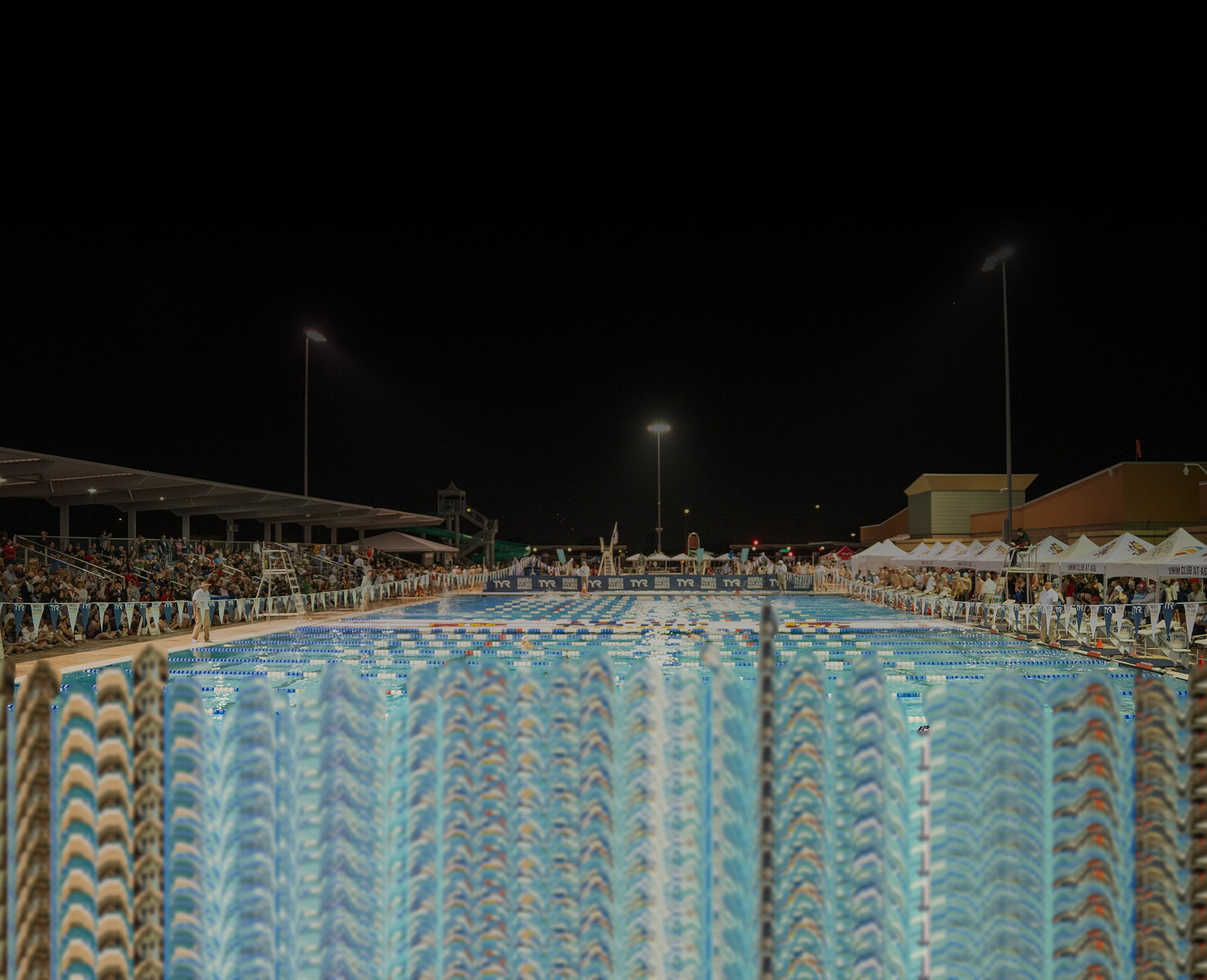
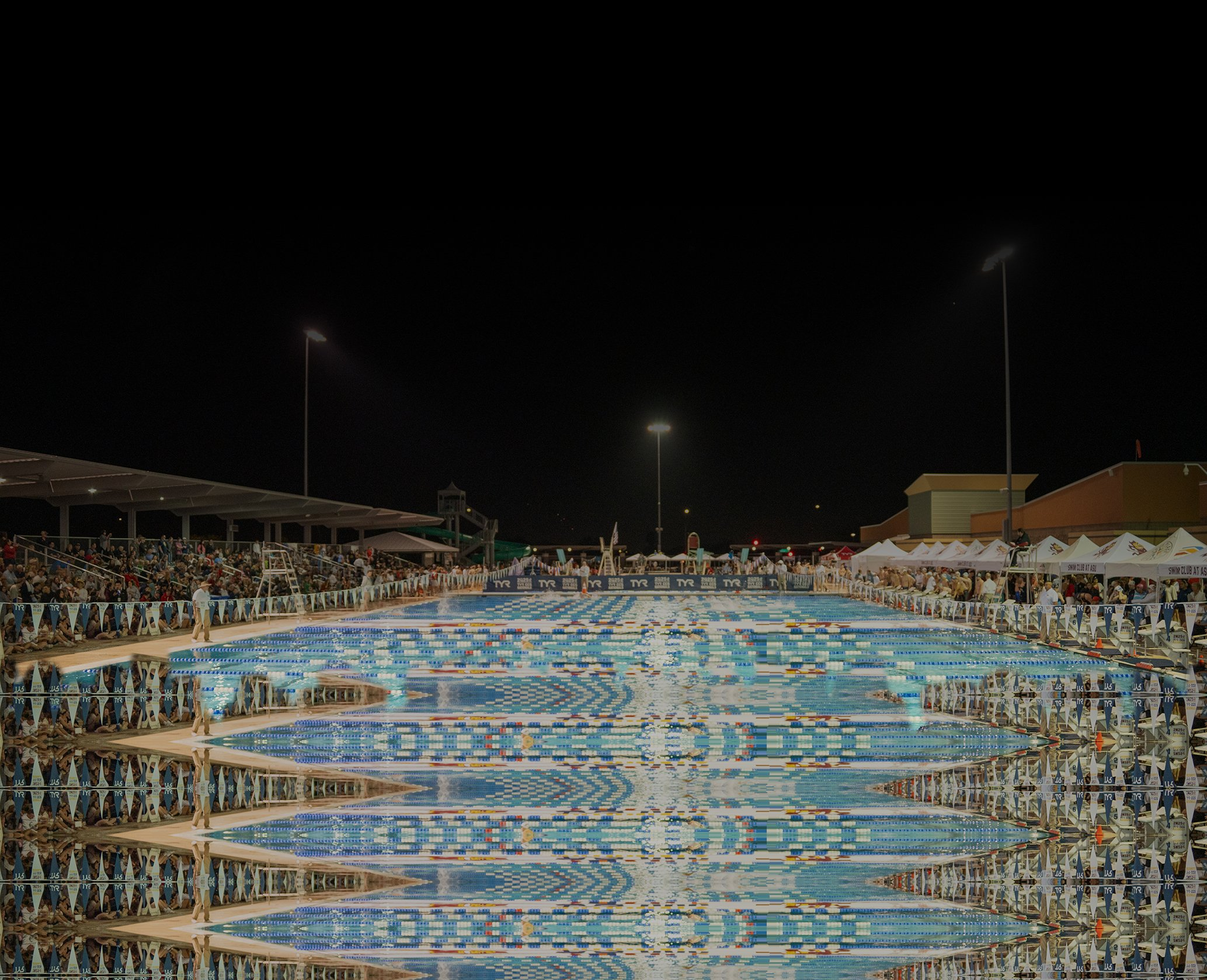
College Club: parallax pool rises, words reordered and raised
- Layers now take start and end values (data-y-from/-to,
  data-zoom-from/-to) so the pool can rise while the crowd drops.
  The pool ends 12% of the section higher, so the water shows above
  the zoomed-in crowd.
- Words reordered to Compete. / Connect. / Have Fun. and raised
  (top 18%) so the last line sits half behind the crowd.
- Regenerated the stand-in background: the crowd area is filled with
  the water band above it, mirror-tiled, instead of per-column
  streaks, so the strip exposed above the heads reads as pool.

Changed region(s): [[0.0, 0.6198, 1.0, 1.0]]

diff --git a/src/js/college-club/ccs-parallax.js b/src/js/college-club/ccs-parallax.js
@@ -3,30 +3,38 @@
 (function () {
     /*
      * Reveal: as the section scrolls into view, the crowd starts high in the frame
-     * and slides down to its resting place, uncovering the pool behind it, while
-     * the words rise from behind the crowd into the gap between them.
+     * and slides down to its resting place while zooming in, the pool rises behind
+     * it so the water shows above the heads, and the words rise from behind the
+     * crowd into the gap between them.
      *
-     * data-shift = where a layer starts, as a fraction of the section's height
-     * (negative = higher, positive = lower). It eases to 0 as the section scrolls
-     * in, and every layer is at rest (the flattened comp) once the section's
-     * bottom edge reaches the bottom of the viewport. -1 would pin the crowd to
-     * the bottom of the viewport the whole way in.
+     * Each layer eases from its "from" values to its "to" values between the
+     * section's top edge entering the bottom of the viewport and the whole section
+     * being on screen, then holds the "to" values.
+     *   data-y-from / data-y-to:       vertical offset as a fraction of the
+     *                                  section's height (negative = up). Default 0.
+     *   data-zoom-from / data-zoom-to: scale, from the layer's transform-origin
+     *                                  (ccs.css). Default 1.
+     * A crowd y-from of -1 would pin it to the bottom of the viewport on the way in.
      *
-     * data-zoom = the layer's scale once the section is fully in view (1.3 = 30%
-     * bigger). It starts at 1 and grows on the same schedule, so the layer zooms
-     * in as you scroll down. It scales from the layer's transform-origin (ccs.css).
-     *
-     * Whatever is below the crowd is always below the fold, so the pool photo can
-     * stay put. It must be the clean plate (crowd removed): the gaps between heads
-     * show it while the crowd is still above its resting place.
+     * The pool must be the clean plate (crowd removed): the gaps between heads
+     * show it while the crowd and pool are out of their comp alignment.
      */
     var stage = document.querySelector("[data-ccs-plx]");
     if (!stage) return;
     if (window.matchMedia("(prefers-reduced-motion: reduce)").matches) return;
 
-    var layers = Array.prototype.map.call(stage.querySelectorAll("[data-shift], [data-zoom]"), function (el) {
-        return { el: el, shift: parseFloat(el.dataset.shift) || 0, zoom: parseFloat(el.dataset.zoom) || 1 };
-    }).filter(function (l) { return l.shift !== 0 || l.zoom !== 1; });
+    function num(el, name, fallback) {
+        var v = parseFloat(el.dataset[name]);
+        return isNaN(v) ? fallback : v;
+    }
+
+    var layers = Array.prototype.map.call(stage.querySelectorAll(".ccs-plx__layer"), function (el) {
+        return {
+            el: el,
+            y0: num(el, "yFrom", 0), y1: num(el, "yTo", 0),
+            z0: num(el, "zoomFrom", 1), z1: num(el, "zoomTo", 1)
+        };
+    }).filter(function (l) { return l.y0 || l.y1 || l.z0 !== 1 || l.z1 !== 1; });
 
     var ticking = false, inView = false;
 
@@ -39,8 +47,8 @@
         // 0 = top edge just entering the bottom of the viewport, 1 = fully in view.
         var p = Math.min(Math.max((vh - r.top) / r.height, 0), 1);
         layers.forEach(function (l) {
-            var y = l.shift * (1 - p) * r.height;
-            var z = 1 + (l.zoom - 1) * p;
+            var y = (l.y0 + (l.y1 - l.y0) * p) * r.height;
+            var z = l.z0 + (l.z1 - l.z0) * p;
             l.el.style.transform = "translate3d(0," + y.toFixed(1) + "px,0) scale(" + z.toFixed(4) + ")";
         });
     }

diff --git a/src/css/college-club/ccs.css b/src/css/college-club/ccs.css
@@ -643,16 +643,17 @@ nav.admin .menu > li > a {
 .ccs-plx__fg {
     z-index: 3;
     pointer-events: none;
-    /* Zoom (data-zoom) grows the crowd up and out from its bottom centre. */
+    /* Zoom (data-zoom-to) grows the crowd up and out from its bottom centre. */
     transform-origin: 50% 100%;
 }
 /* The cutout is the background's crowd, 19px (of 2067 wide) up from its bottom edge. */
 .ccs-plx__fg img { bottom: 0.92%; }
 
-/* Text box measured from the comp: top at comp y 140 = photo row 420 of 1624. */
+/* Text box: the comp put it at 25.9% (comp y 140 = photo row 420 of 1624);
+   raised so the last line sits half behind the zoomed-in crowd, as in the comp. */
 .ccs-plx__words {
     position: absolute;
-    top: 25.9%;
+    top: 18%;
     left: 0;
     right: 0;
     margin: 0;
